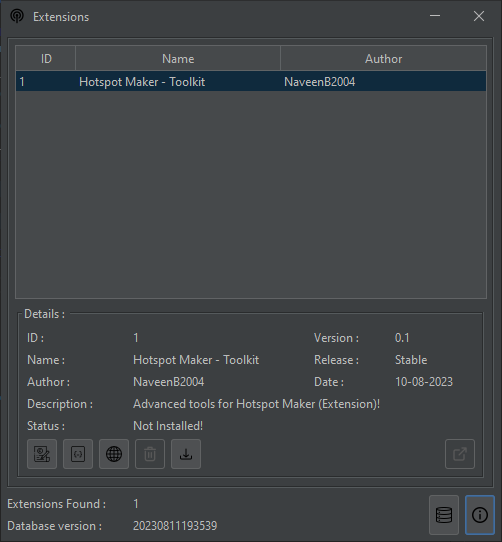
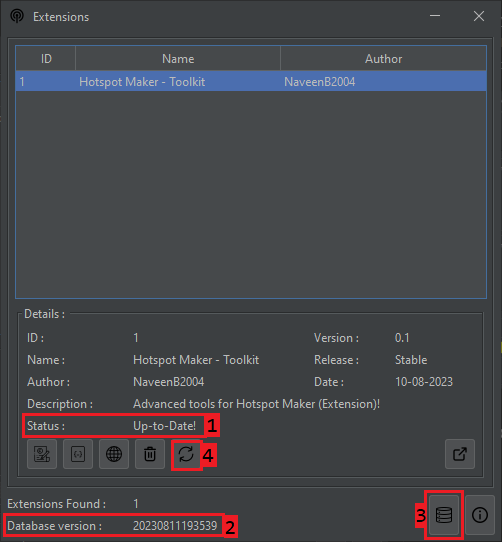
doc updates

diff --git a/Extensions/Docs/User/02. Update Extensions Database.md b/Extensions/Docs/User/02. Update Extensions Database.md
@@ -3,13 +3,29 @@
 This section will help you to get updates of the extensions. Besically we discuss about,
 - [Update Extensions Database](#update-extensions-database)
   - [What is the need of Updating Database?](#what-is-the-need-of-updating-database)
+  - [How do I update the Database?](#how-do-i-update-the-database)
 
-![Interface 5](../Media/Interface5.PNG "Hotspot Maker Extension Interface 5")
+![Interface 3](../Media/Interface3.PNG "Hotspot Maker Extension Interface 3")
 
 ### What is the need of Updating Database?
 
 Good question. In our application, we maintain a cloud database (online database) & local database (on your pc). 
 
-We use the local database to fetch the details to the `Extensions Table` & `Detals Section`. This will help the application to perform extension task like run extensions, uninstall extensions, get details about the extensions if you are offline. But then, you can't check updates, install or update extensions.
+We use the local database to fetch the details to the `Extensions Table` & `Details Section`. This will help the application perform extension tasks like running extensions, uninstalling extensions, and getting details about the extensions if you are offline. But, you can't check updates, install or update extensions in offline mode.
 
-We are updating the cloud database onece per day. But you will not getting any updates on extensions daily. If a developer release a new version of extension, you will be able to get the new version of database.
+We are updating the cloud database once per day (UTC 12AM). But you will not get any updates on extensions daily. If a developer releases a new version of the extension, you will be able to get the new version of the database.
+
+The updated databases have the latest versions of extensions and details. It will help to update and download the extensions. So, that's the reason for database updates.
+
+### How do I update the Database?
+
+It's easy. Just click on `Check Database Updates` button (reffer the image - 3). It will trigger a update check and download fresh database. After done, you will recieve a message about database version. If the message body contains `Done!` there's no extension updates. Else the message body contains `Hooray! New Database!` there's also extenson updates. You can see the database current version in `Database Version` detail (reffer the image - 2).
+
+After updating the database, each extension update status will indicate in `Details Section`, `Status` detail (reffer the image - 1). You can update each extension by clicking the `Re-install/Update` button (reffer the image - 4).
+
+***
+
+[< Previous-Page][back] | [Next-Page >][next]
+
+[back]: 01.%20Extensions%20&%20Basic%20Interface.md "Extensions & Basic Interface"
+[next]: 03.%20Install,%20Uninstall%20&%20Re-Install%20Extensions.md "Install, Uninstall & Re-Install Extensions"

diff --git a/Extensions/Docs/User/01. Extensions & Basic Interface.md b/Extensions/Docs/User/01. Extensions & Basic Interface.md
@@ -46,6 +46,9 @@ The only method that you have to access the extensions is the button `Extensions
 
 ***
 
-[Next-Page >](02.%20Update%20Extensions%20Database.md "Update Extensions Database")
+[< Previous-Page][back] | [Next-Page >][next]
+
+[back]: README.md "ReadMe"
+[next]: 02.%20Update%20Extensions%20Database.md "Update Extensions Database"
 
 [trubelshoot doc]: 05.%20Troubleshooting.md

diff --git a/Extensions/Docs/User/README.md b/Extensions/Docs/User/README.md
@@ -16,4 +16,7 @@ You can jump to specific content using the links in `Contents` or read step-by-s
 
 ***
 
-###### [Next-Page >](01.%20Extensions%20&%20Basic%20Interface.md "Extensions & Basic Interface")
+[< Previous-Page][back] | [Next-Page >][next]
+
+[back]: ../../README.md "ReadMe"
+[next]: 01.%20Extensions%20&%20Basic%20Interface.md "Extensions & Basic Interface"

diff --git a/Extensions/Docs/User/03. Troubleshooting.md b/Extensions/Docs/User/03. Troubleshooting.md
@@ -1,0 +1,9 @@
+## Troubleshooting
+
+This section will help you to troubleshoot extensions problems.
+- [Troubleshooting](#troubleshooting)
+  - [](#)
+
+![Troubleshooting](https://tenor.com/13Ef.gif)
+
+### 
